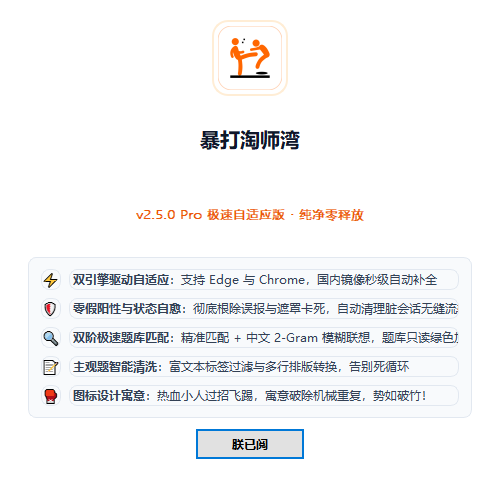
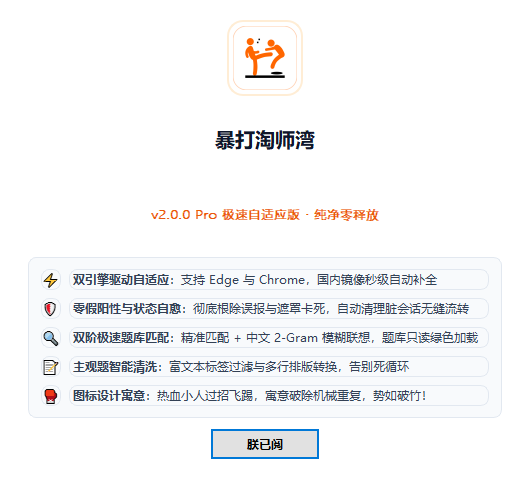
fix: 去除窗口标题中的Selenium，统一全工程版本号为v2.0.0 Pro

diff --git a/styles.py b/styles.py
@@ -8,7 +8,7 @@ from PyQt5.QtWidgets import (QFrame, QLabel, QVBoxLayout, QHBoxLayout, QStyledIt
                              QStyle, QDialog, QPushButton, QWidget)
 from PyQt5.QtCore import Qt, QRectF, QSize
 from PyQt5.QtGui import QColor, QPainter, QBrush, QPen, QFont, QPainterPath, QPixmap, QIcon
-from config import get_resource_path
+from config import get_resource_path, APP_VERSION
 import os
 
 # 现代化调色板
@@ -648,7 +648,7 @@ class AboutDialog(QDialog):
         title_label.setStyleSheet("color: #0f172a;")
         layout.addWidget(title_label)
         
-        version_label = QLabel("v2.5.0 Pro 极速自适应版 · 纯净零释放")
+        version_label = QLabel(f"{APP_VERSION} 极速自适应版 · 纯净零释放")
         version_label.setFont(QFont("Microsoft YaHei", 9, QFont.Medium))
         version_label.setAlignment(Qt.AlignCenter)
         version_label.setStyleSheet("color: #ea580c;")

diff --git a/config.py b/config.py
@@ -143,9 +143,11 @@ XPATHS = {
     "back_button": "//a[contains(text(), '返回')]|//button[contains(text(), '返回')]|//button[@onclick='goBack()']|//a[@onclick='goBack()']"
 }
 
-# UI配置
+# 应用版本与标题配置
+APP_VERSION = "v2.0.0 Pro"
+
 UI_CONFIG = {
-    "window_title": "Selenium暴打淘师湾作业网",
+    "window_title": "暴打淘师湾作业网",
     "window_geometry": (100, 100, 1040, 700),  # 现代化工作台宽屏分辨率
     "global_font_family": "Microsoft YaHei, PingFang SC, Helvetica Neue, Arial, sans-serif"
 }
